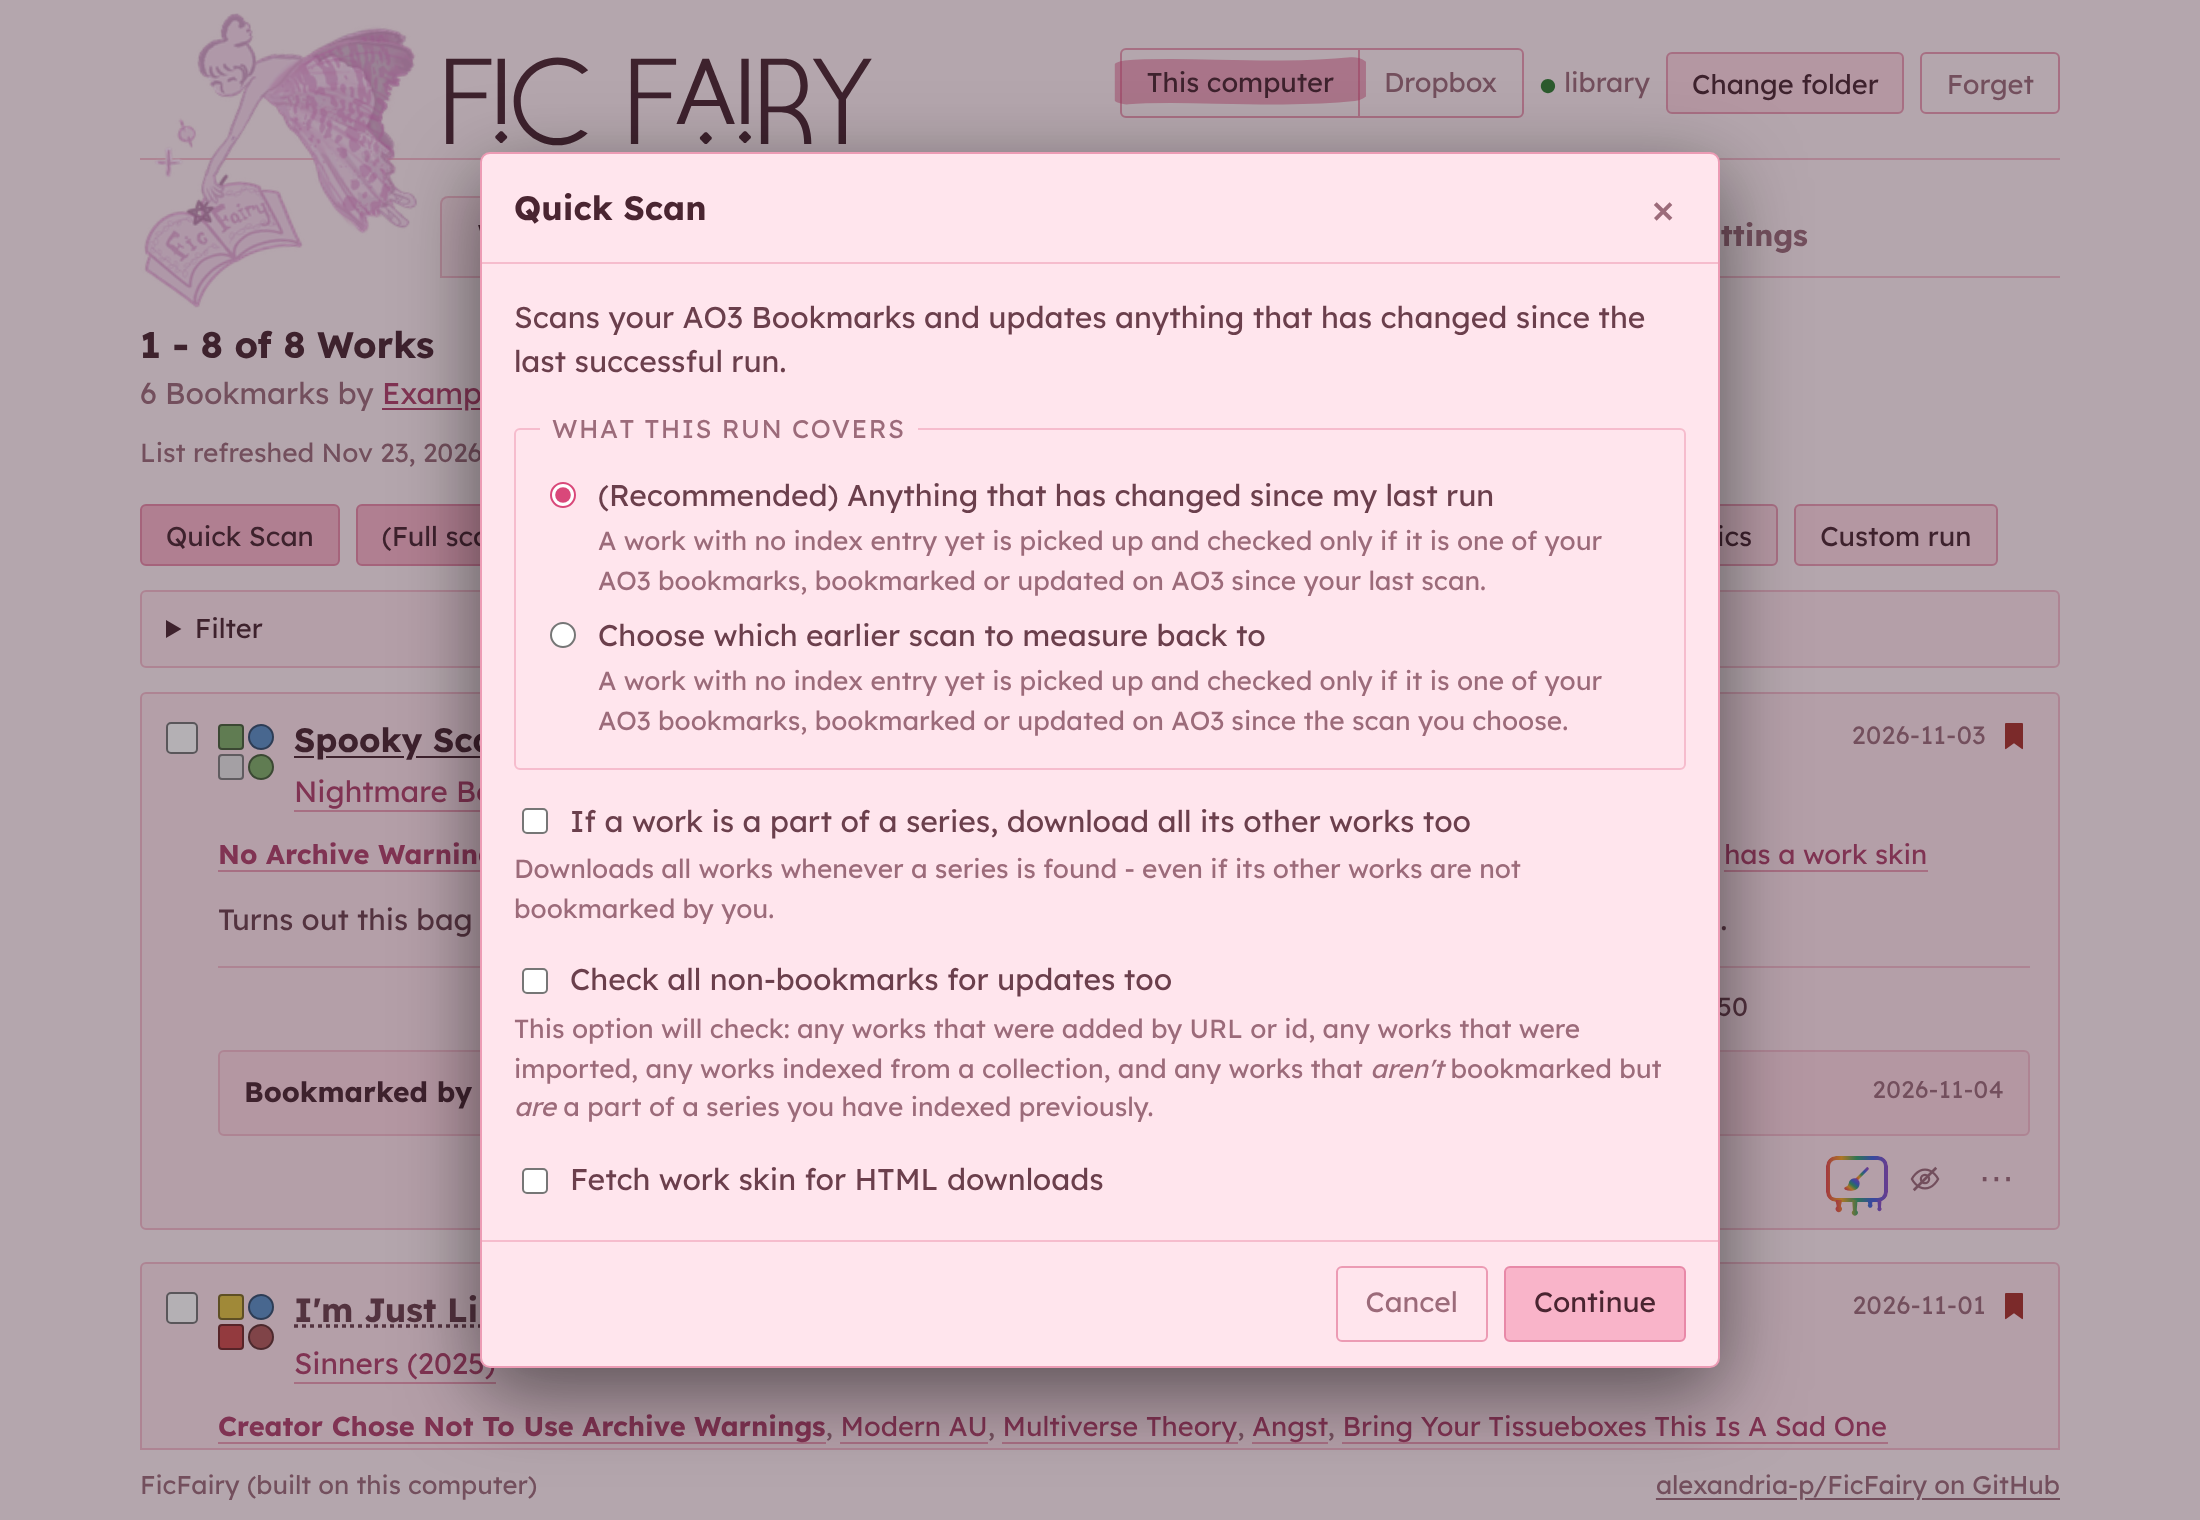
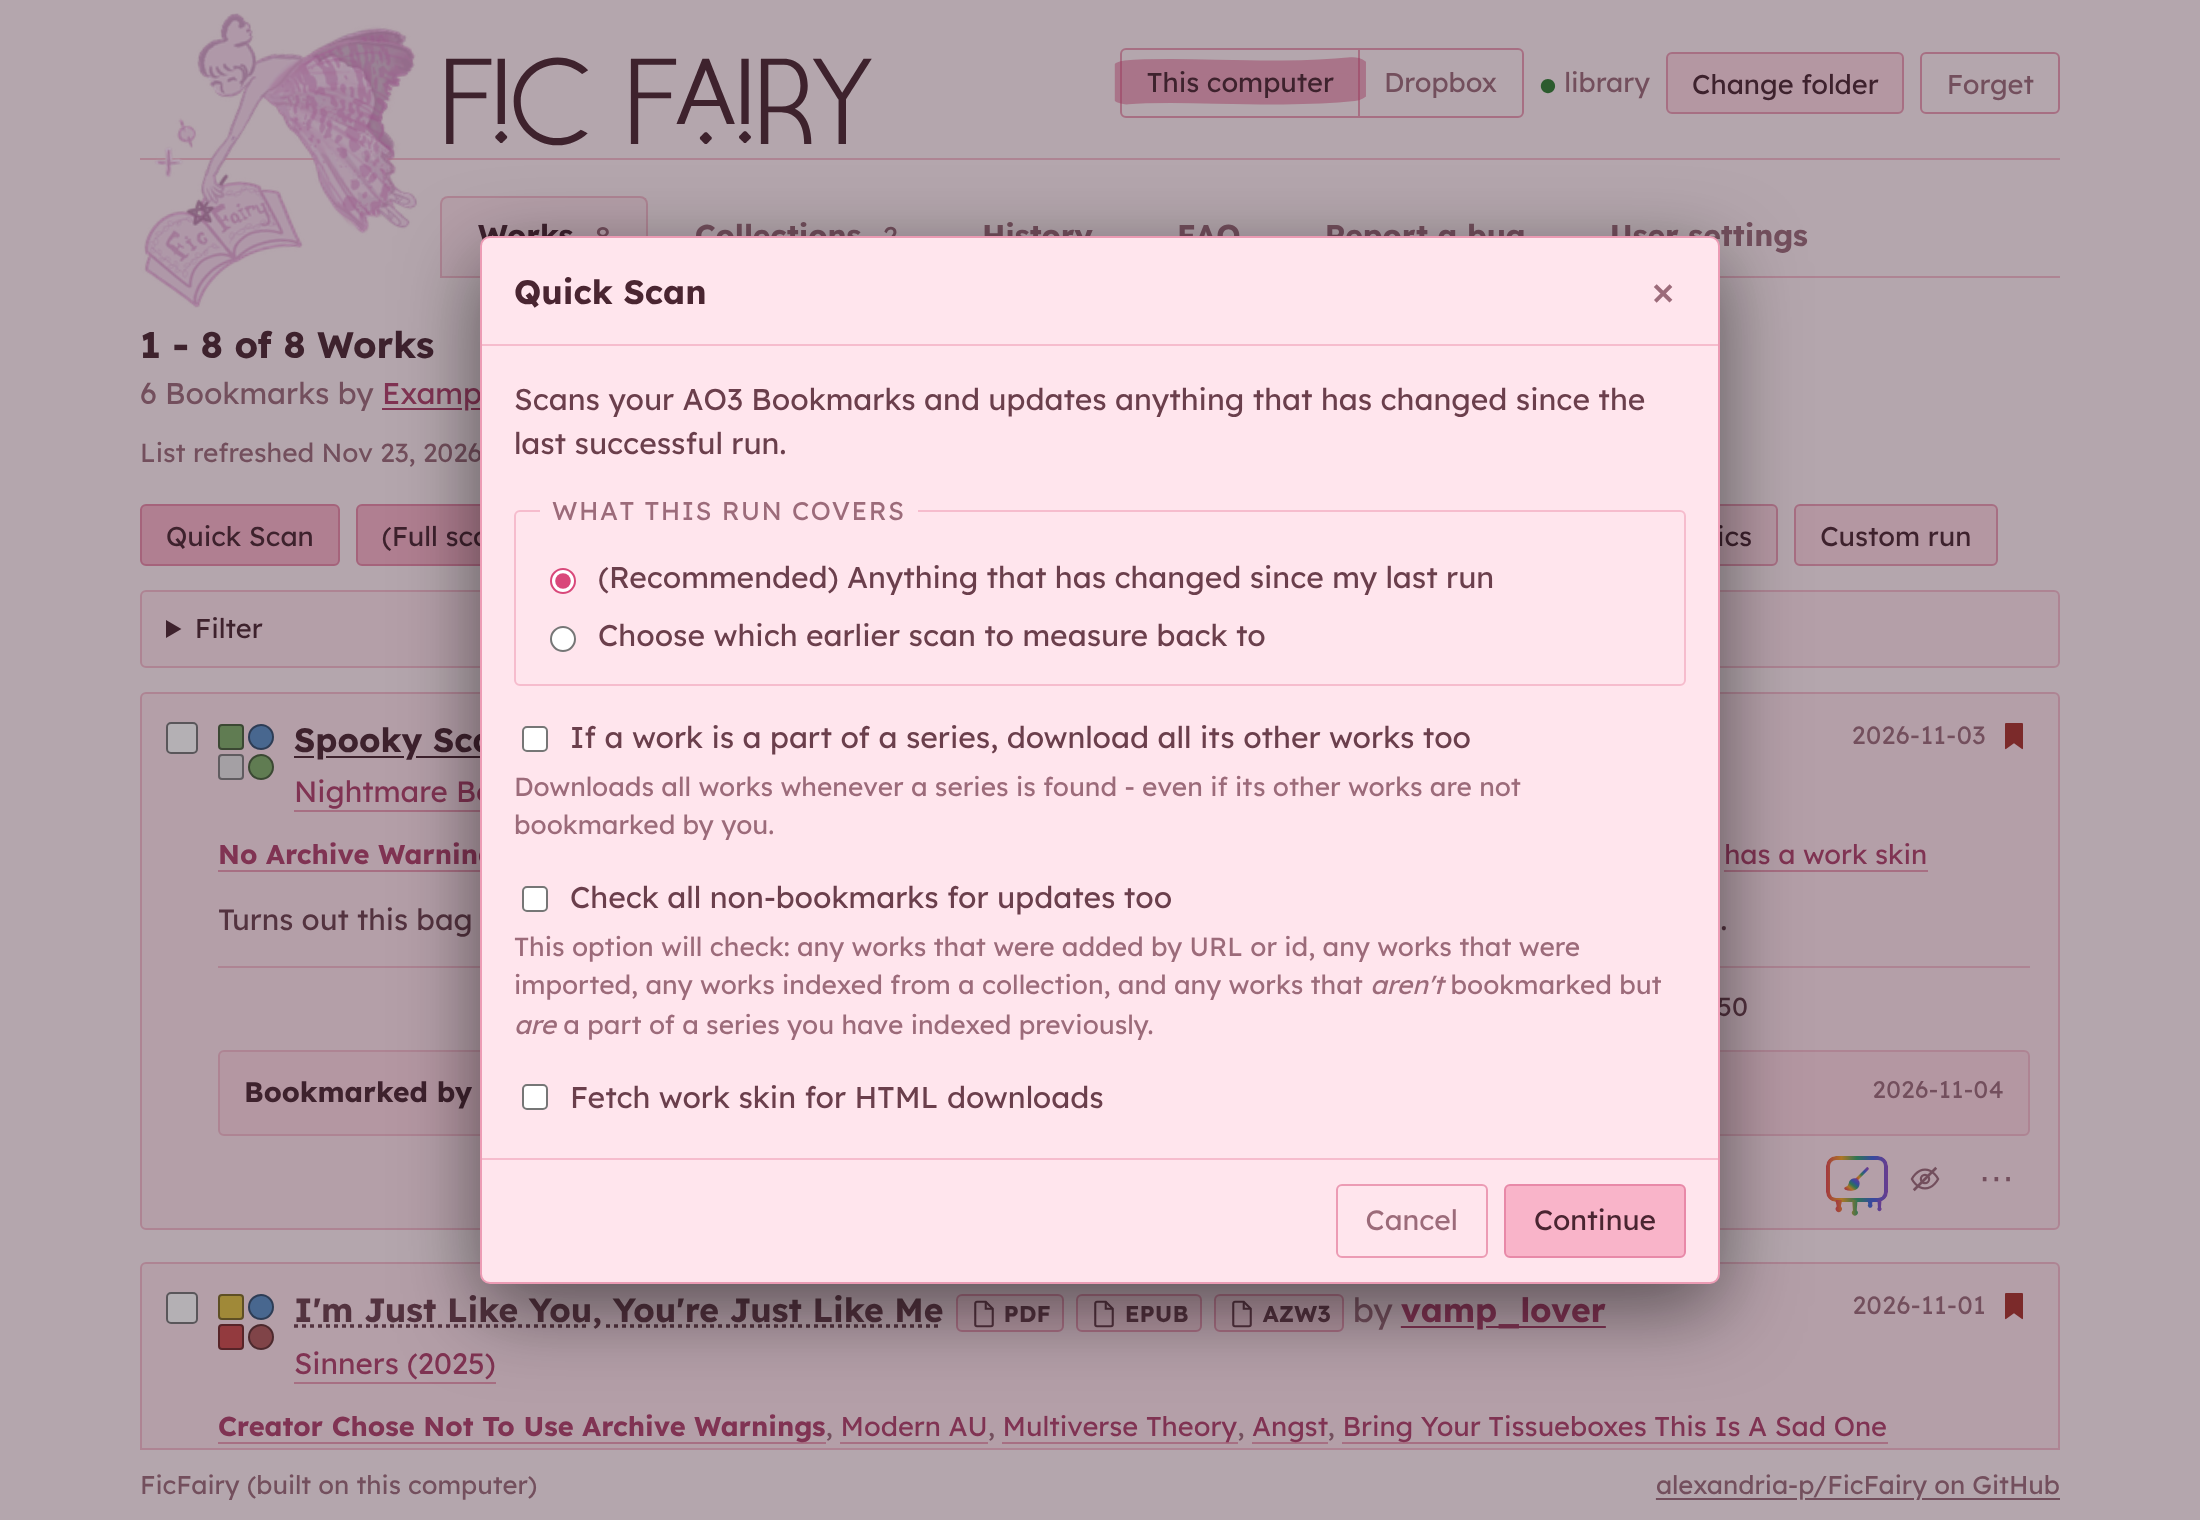
Quick scan: no hint under its coverage choices; README screenshot regenerated
Claude-Session: https://claude.ai/code/session_014j8XzbPJLBPNYXTDc9a1Uj

diff --git a/gui_source/src/app/download-dialog.html b/gui_source/src/app/download-dialog.html
@@ -281,10 +281,6 @@
               <span>
                 @if (action() === 'quick') {
                   (Recommended) Anything that has changed since my last run
-                  <span class="hint coverage-hint">
-                    A work with no index entry yet is picked up and checked only if it is one of your
-                    AO3 bookmarks, bookmarked or updated on AO3 since your last scan.
-                  </span>
                 } @else {
                   All bookmarks
                 }
@@ -322,10 +318,6 @@
                        (change)="coverage.set('run')" />
                 <span>
                   Choose which earlier scan to measure back to
-                  <span class="hint coverage-hint">
-                    A work with no index entry yet is picked up and checked only if it is one of your
-                    AO3 bookmarks, bookmarked or updated on AO3 since the scan you choose.
-                  </span>
                 </span>
               </label>
             }
@@ -338,10 +330,6 @@
                        (change)="coverage.set('dates')" />
                 <span>
                   [DEBUG] Choose my own date range
-                  <span class="hint coverage-hint">
-                    A work with no index entry yet is picked up and checked only if it is one of
-                    your AO3 bookmarks, bookmarked or updated on AO3 within the range.
-                  </span>
                 </span>
               </label>
             }

diff --git a/gui_source/src/app/download-dialog.spec.ts b/gui_source/src/app/download-dialog.spec.ts
@@ -3786,6 +3786,13 @@ describe('DownloadDialog', () => {
     expect(jobs.started[0].filetypes).not.toContain('JSON');
   });
 
+  it("puts no hint under a quick scan's choices of what it covers", async () => {
+    await open('quick');
+    await advanceTo('options');
+    expect(element.textContent).toContain('Anything that has changed since my last run');
+    expect(element.querySelectorAll('.coverage-hint').length).toBe(0);
+  });
+
   it("says whether a work with no index entry is picked up only under the custom run's outdated-check choices", async () => {
     await open('custom');
     await advanceTo('options');
